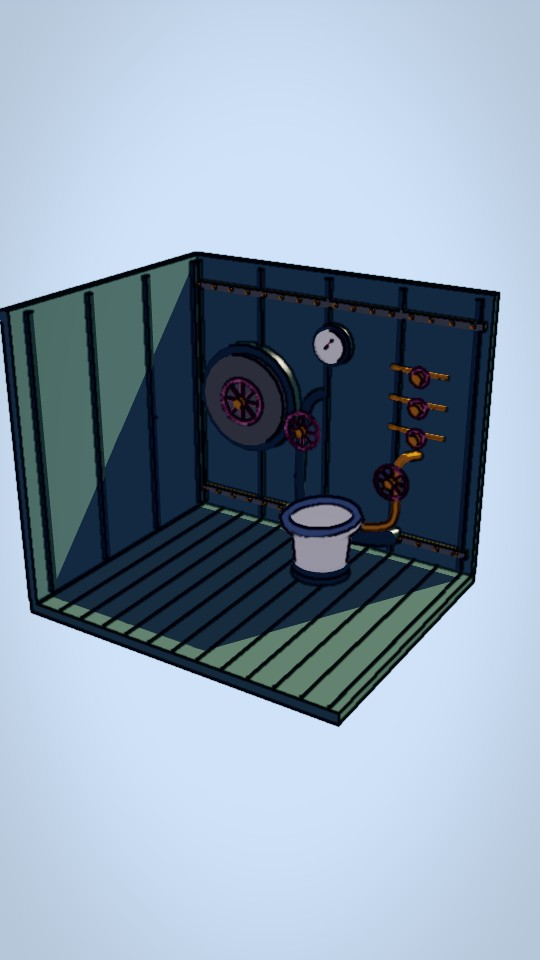
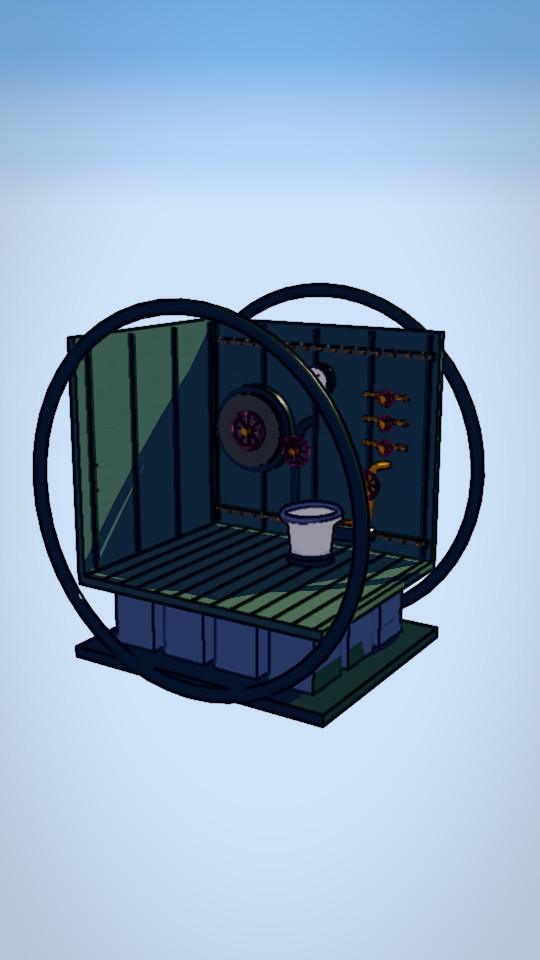
Improve submarine reference and asset experiments

diff --git a/videos/submarine-toilet/assets/submarine.js b/videos/submarine-toilet/assets/submarine.js
@@ -1,7 +1,7 @@
 // Original stylised U-boat and compartment geometry. Y up; metres; bow +Z.
 import * as T from 'three';
 const mat=(name,color)=>Object.assign(new T.MeshStandardMaterial({color,roughness:.8}),{name});
-const M={hull:mat('iron','#56696b'), lower:mat('iron','#343f43'), deck:mat('iron','#777a70'), edge:mat('iron','#323e40'), brass:mat('gold','#bb8749'), ivory:mat('enamel','#dfdac5'), red:mat('paint','#9e4035'), dark:mat('dark','#293536'), floor:mat('iron','#586965')};
+const M={wood:mat('oakDark','#695c4b'), hull:mat('iron','#56696b'), lower:mat('iron','#343f43'), deck:mat('iron','#777a70'), edge:mat('iron','#323e40'), brass:mat('gold','#bb8749'), ivory:mat('enamel','#dfdac5'), red:mat('paint','#9e4035'), dark:mat('dark','#293536'), floor:mat('iron','#586965')};
 function mesh(g,m,parent,x=0,y=0,z=0){const a=new T.Mesh(g,m);a.position.set(x,y,z);parent.add(a);return a}
 function box(p,m,x,y,z,w,h,d){return mesh(new T.BoxGeometry(w,h,d),m,p,x,y,z)}
 function cylinder(p,m,x,y,z,r,h,axis='y'){let a=mesh(new T.CylinderGeometry(r,r,h,20),m,p,x,y,z);if(axis==='z')a.rotation.x=Math.PI/2;if(axis==='x')a.rotation.z=Math.PI/2;return a}
@@ -33,11 +33,32 @@ export function createSubmarine(){let g=new T.Group();g.name='type-viic-inspired
  // Long turned pressure hull, fine ends and raised free-flooding upper casing.
  const pts=[[-33,0],[-32,.55],[-29,1.45],[-24,2.3],[-17,2.9],[-7,3.15],[9,3.15],[20,2.8],[28,1.9],[32,.75],[33,0]].map(([z,r])=>new T.Vector2(r,z));
  let hull=mesh(new T.LatheGeometry(pts,64),M.hull,g,0,3.2,0);hull.rotation.x=Math.PI/2;
- box(g,M.deck,0,5.6,0,3.8,.22,42);for(let z=-19;z<21;z+=1.2)box(g,M.edge,0,5.73,z,3.55,.02,.035);
+ // Raised casing and wooden deck over the pressure hull. Dark marks are graphic flood-port cues.
+ box(g,M.deck,0,5.6,0,3.8,.22,42);box(g,M.wood,0,5.73,0,3.35,.055,40);
+ for(let x=-1.5;x<=1.5;x+=.3)box(g,M.edge,x,5.765,0,.018,.012,39.8);
+ for(let side of [-1,1]) { let tank=mesh(new T.SphereGeometry(1,24,12),M.lower,g,side*2.12,3.2,-1); tank.scale.set(.85,1.18,20); for(let z=-17;z<=18;z+=1.4) box(g,M.edge,side*2.39,4.96,z,.045,.13,.7); }
+ for(let z=-18;z<19;z+=3.5){cylinder(g,M.edge,0,5.8,z,.19,.07);cylinder(g,M.deck,0,5.85,z,.13,.05)}
  let tower=new T.Group();tower.name='conning-tower';g.add(tower);box(tower,M.hull,0,6.45,-1,2.5,1.65,6.8);cylinder(tower,M.hull,0,6.45,2.4,1.25,1.65);box(tower,M.edge,0,7.34,-.4,2.7,.12,6.2);
+ // Simplified late-war bridge and raised aft wintergarten, separate rail/weapon detailing remains schematic.
+ box(tower,M.hull,0,6.25,-5,2.35,.65,2.6);box(tower,M.deck,0,6.63,-5,2.5,.12,2.6);
+ for(let x of [-1.16,1.16]) {for(let z=-6;z<=-4;z+=.5)cylinder(tower,M.edge,x,6.98,z,.025,.65);box(tower,M.edge,x,7.31,-5,.04,.04,2.3)}
+ for(let side of [-1,1])for(let z=-2.8;z<2;z+=.55)box(tower,M.edge,side*1.26,6.55,z,.025,.2,.24);
  for(let x of [-1.15,1.15]){for(let z=-3.8;z<2.8;z+=1.05)cylinder(tower,M.edge,x,7.65,z,.035,.65);box(tower,M.edge,x,7.96,-.5,.045,.045,6.8)}
  cylinder(tower,M.edge,-.35,8.25,-.6,.07,1.6);cylinder(tower,M.edge,.3,8.1,-1.4,.045,1.4);
  // twin stern shafts, propellers and separate steering surfaces
  for(let x of [-1.15,1.15]){cylinder(g,M.edge,x,2.65,-28,.10,5,'z');let prop=new T.Group();prop.name='propeller';prop.position.set(x,2.65,-30.5);g.add(prop);cylinder(prop,M.brass,0,0,0,.2,.5,'z');for(let i=0;i<3;i++){let blade=mesh(new T.SphereGeometry(.55,12,8),M.brass,prop,Math.cos(i*2*Math.PI/3)*.48,Math.sin(i*2*Math.PI/3)*.48,0);blade.scale.set(.42,1,.1);blade.rotation.z=i*2*Math.PI/3-1.1}}
  box(g,M.edge,0,2.6,-30,.18,3.0,2.4);box(g,M.edge,0,3.0,-30,4.4,.16,2.1);
- g.userData={units:'m',pivot:'keel midships',bow:'+Z',length:66};return g}
+ g.userData={units:'m',pivot:'keel midships',bow:'+Z',length:66, historicalNote:'stylised type VIIC; configuration not verified for U-1206'};return g}
+/** Educational section: illustrative spatial layers, not a verified arrangement of U-1206. */
+export function createSection(){
+ const section=new T.Group();section.name='illustrative-section';
+ const room=createCompartment();room.position.y=1;section.add(room);
+ // A ring at each end makes the pressure-hull cross section legible with the near wall removed.
+ for(const z of [-1.42,1.42]){const rib=mesh(new T.TorusGeometry(2.05,.08,10,48),M.edge,section,0,2.05,z);rib.name='pressure-hull-rib'}
+ box(section,M.lower,0,.07,0,3.3,.14,2.8);
+ for(let x of [-1.05,-.35,.35,1.05]) for(let z of [-.75,0,.75]){
+  const cell=box(section,M.dark,x,.48,z,.56,.74,.6);cell.name='illustrative-battery';
+  cylinder(section,M.brass,x-.13,.88,z,.045,.08);cylinder(section,M.brass,x+.13,.88,z,.045,.08);
+ }
+ section.userData={units:'m',pivot:'bottom centre',historicalNote:'schematic; battery location and pipe routing unverified'};return section;
+}

diff --git a/src/videos/submarine-toilet/Preview.tsx b/src/videos/submarine-toilet/Preview.tsx
@@ -9,18 +9,18 @@ import {InkPass, noInkFallback, NOINK} from '../../pipeline/ink';
 import {LensBlur} from '../../pipeline/lensblur';
 import {GradeEffect, GRADES, GRADE_STRENGTH} from '../../pipeline/grade';
 import {SkyRig} from '../../pipeline/sky';
-import {toonify} from '../../pipeline/props3d';
+import {finish} from './materials';
 import {Ground} from '../../pipeline/ground';
 import {CardStage, person, blob, Stage, CamInfo} from '../../pipeline/cast';
 import {soldier} from '../../pipeline/toon';
-import {createCompartment,createSubmarine,createToilet} from '../../../videos/submarine-toilet/assets/submarine.js';
-const shots=[{pos:[78,60,108],look:[0,3,0],fov:48},{pos:[2.1,2.0,4.4],look:[0,.8,-.2],fov:48},{pos:[4.8,4.9,7.4],look:[0,1,-.2],fov:48},{pos:[3.2,2.6,7.0],look:[0,1,-.4],fov:48}] as const;
+import {createCompartment,createSubmarine,createToilet,createSection} from '../../../videos/submarine-toilet/assets/submarine.js';
+const shots=[{pos:[78,60,108],look:[0,3,0],fov:48},{pos:[2.1,2.0,4.4],look:[0,.8,-.2],fov:48},{pos:[6.5,5.0,10.0],look:[0,2,-.2],fov:48},{pos:[3.2,2.6,7.0],look:[0,1,-.4],fov:48}] as const;
 function Inner(){const f=useCurrentFrame();const {camera,scene}=useThree();const cam=camera as THREE.PerspectiveCamera;
- const world=useMemo(()=>{const root=new THREE.Group(),sky=new SkyRig(root,{clouds:0});const ship=toonify(createSubmarine()),room=toonify(createCompartment()),toilet=toonify(createToilet());root.add(ship,room,toilet);const ground=new Ground();const floor=room.getObjectByName('floor');if(floor)ground.add(floor);const cards=new CardStage(root,ground);return {root,sky,ship,room,toilet,cards}},[]);
+ const world=useMemo(()=>{const root=new THREE.Group(),sky=new SkyRig(root,{clouds:0});const ship=finish(createSubmarine()),room=finish(createCompartment()),toilet=finish(createToilet()),section=finish(createSection());root.add(ship,room,toilet,section);const ground=new Ground();const floor=room.getObjectByName('floor');if(floor)ground.add(floor);const cards=new CardStage(root,ground);return {root,sky,ship,room,toilet,section,cards}},[]);
  const fx=useMemo(()=>({ink:new InkPass(scene,cam),lens:new LensBlur({maxCoC:24,nearScale:1.2}),bloom:new BloomEffect({blendFunction:BlendFunction.ADD,intensity:.5,luminanceThreshold:1,luminanceSmoothing:.2,mipmapBlur:true,levels:6,radius:.6}),tone:new ToneMappingEffect({mode:ToneMappingMode.NEUTRAL}),grade:new GradeEffect(GRADES.day,GRADE_STRENGTH.day)}),[scene,cam]);
  const i=Math.min(3,Math.floor(f/100)),s=shots[i];cam.position.set(s.pos[0],s.pos[1],s.pos[2]);cam.lookAt(s.look[0],s.look[1],s.look[2]);cam.fov=s.fov;cam.updateProjectionMatrix();cam.updateMatrixWorld();cam.layers.enable(NOINK);
  const focus=new THREE.Vector3(...s.look),sun=SkyRig.sunFrom(focus.x-cam.position.x,focus.z-cam.position.z,62,44);world.sky.update(cam,scene,'day',sun,focus,{fogNear:200,fogFar:1000,shadowR:i===0?60:8});
- world.ship.visible=i===0;world.room.visible=i>=2;world.toilet.visible=i===1;world.root.updateMatrixWorld(true);
+ world.ship.visible=i===0;world.room.visible=i===3;world.section.visible=i===2;world.toilet.visible=i===1;world.root.updateMatrixWorld(true);
  const right=new THREE.Vector3().setFromMatrixColumn(cam.matrixWorld,0),ci:CamInfo={pos:cam.position,right,sun,light:'day'},st:Stage={places:[],fx:[]};
  if(i===3){st.places.push(person(ci,1,soldier(0),'crew',-.55,0,.3,{mode:'stand',expr:'worried'},1,{name:'crew',glow:'subtle'}));blob(ci,st,-.55,.3)}
  world.cards.render(st,cam,right,'day',false);noInkFallback(world.root);fx.lens.focus=cam.position.distanceTo(focus);fx.lens.cInf=0;

diff --git a/src/videos/submarine-toilet/materials.ts b/src/videos/submarine-toilet/materials.ts
@@ -1,0 +1,22 @@
+// Story-specific painted-metal treatment. Textures are original, generated deterministically at runtime.
+import * as THREE from 'three';
+import {toonify} from '../../pipeline/props3d';
+
+function paintedMetal(): THREE.CanvasTexture {
+  const c=document.createElement('canvas'); c.width=512;c.height=512;
+  const ctx=c.getContext('2d')!;ctx.fillStyle='#e2e3dc';ctx.fillRect(0,0,512,512);
+  // Soft tonal variation and fine, sparse scratches rather than photographic dirt.
+  let seed=1206;const rand=()=>{seed=(seed*1664525+1013904223)>>>0;return seed/4294967296};
+  for(let i=0;i<460;i++) {const x=rand()*512,y=rand()*512,w=4+rand()*50;
+    ctx.strokeStyle=i%3===0?'rgba(255,255,255,0.12)':'rgba(45,63,57,0.07)';ctx.lineWidth=.5+rand()*1.5;ctx.beginPath();ctx.moveTo(x,y);ctx.lineTo(x+w,y+rand()*3-1.5);ctx.stroke();}
+  const t=new THREE.CanvasTexture(c);t.colorSpace=THREE.SRGBColorSpace;t.wrapS=t.wrapT=THREE.RepeatWrapping;t.needsUpdate=true;return t;
+}
+/** Convert to the shared two-tone shader, preserving an original procedural finish. */
+export function finish<T extends THREE.Object3D>(root:T):T {
+  toonify(root); const texture=paintedMetal(), cache=new Map<THREE.Material,THREE.Material>();
+  root.traverse(o=>{const mesh=o as THREE.Mesh;if(!mesh.isMesh)return;
+    const apply=(base:THREE.Material)=>{if(base.name!=='iron')return base;let m=cache.get(base);if(!m){
+      const original=base as THREE.MeshPhongMaterial;const copy=original.clone();copy.onBeforeCompile=original.onBeforeCompile;copy.customProgramCacheKey=original.customProgramCacheKey;copy.map=texture;copy.needsUpdate=true;m=copy;cache.set(base,m)}return m};
+    mesh.material=Array.isArray(mesh.material)?mesh.material.map(apply):apply(mesh.material);
+  });return root;
+}

diff --git a/videos/submarine-toilet/ASSET-MANIFEST.md b/videos/submarine-toilet/ASSET-MANIFEST.md
@@ -13,3 +13,13 @@ Valve wheels and propellers are named groups but animation pivots and connection
 ## References and uncertainty
 
 The proposed source https://uboat.net/types/viic.htm could not be retrieved (network proxy returned HTTP 403). No historical dimensions, hull features, or toilet configuration have been verified for this model. Research primary or reputable museum/technical references for the Type VIIC/41 U-1206 exterior and the specific high-pressure system before building a factual visual. Confirm licensing and cite consulted material, not merely suggested URLs. The cause and sequence remain unverified. Do not promote the geometry or script to approved on this evidence.
+
+## Reference and iteration update
+
+- [Type VIIC manual, U-boat Archive](https://uboatarchive.net/Manual/Manual.htm), sections II and XI: describes circular pressure hull, separate outer casing, deck and compressed-air-operated W.C. pumps. It does not establish the exact layout on U-1206.
+- [U-1206 boat record, uboat.net](https://uboat.net/boats/u1206.htm) identifies it as Type VIIC and gives an account of high-pressure toilet-related flooding. [National Underwater and Marine Agency](https://numa.net/2025/01/u-1206-flush-ends-wartime-gamble/) provides another account; details require independent checking before script approval.
+- [Sanitary piping discussion, U-Historia](https://u-historia.com/uhistoria/tecnico/visitaguiada/tubsani/tubsani.htm) offers a different sequence of events. No single version or modeled pipe layout has been established as fact. Links are research references only; no images or source geometry were imported.
+
+`createSection()` now offers a schematic section, with illustrative battery cells below an accessible compartment; it is not a verified longitudinal U-1206 cutaway. `src/videos/submarine-toilet/materials.ts` applies an original deterministic painted-metal texture in the preview renderer, and the wooden deck uses the shared toon material treatment. The unconverted asset uses named standard materials; use `finish()` to apply the same finish. The updated exterior has schematic saddle tanks, deck, vents and wintergarten. All assets remain **blocked**: the exterior is still too small in frame and too schematic, the ringed section is sparse and visually confusing, the interior remains dark, and the toilet arrangement and operating sequence are unverified.
+
+`node scripts/audit-submarine.mjs` checks finite position/normal attributes and bounding boxes only: exterior 8,664, toilet 5,232, compartment 12,800, section 16,796 triangles. It does not establish normals orientation, closed surfaces, contact, collisions, valid pivots, or visual quality.

diff --git a/videos/submarine-toilet/CODEX-HANDOFF.md b/videos/submarine-toilet/CODEX-HANDOFF.md
@@ -7,3 +7,7 @@ Implemented: preliminary procedural exterior, toilet and removable-wall compartm
 Validation on 2026-11-17: `npx tsc --noEmit` passed. `node scripts/submarine-stills.mjs` rendered all four JPEGs with system Chromium and software GL after sandbox blocked Chromium's crashpad; the successful run required elevated execution. Visually inspected at 540 × 960: objects load and scale card is grounded, but model quality, historical fidelity, detailed mechanism, textures, practical cutaway, lighting, composition and QA fail the requested standard. The preview character is an anachronistic scale proxy. Exterior framing is very small; room shadows are dark. These previews are diagnostic, not a request to approve assets. No geometry audit or motion/contact test has passed.
 
 Network reference request to uboat.net returned HTTP 403. Obtain accessible sources, research proportions and mechanism, rebuild models as needed, provide materials/textures, section view and working character interaction, then run geometric audits and render/inspect hero, detail, section and staging stills from multiple angles. Compare against Niagara renders and obtain owner approval. Draft script and missing SCRIPT.md / SHOTLIST.md are separate blockers to production. Do not start animation. No claim is made that this branch is available to Claude until it is pushed or checked out explicitly.
+
+## Subsequent iteration
+
+Accessible references were found and recorded in the manifest. An original generated metal finish, simplified deck and casing detail, and an illustrative section have been added; all four stills were rerendered and inspected with the same command. `npx tsc --noEmit` and `node scripts/audit-submarine.mjs` passed; the latter checks only finite attributes and bounds, not complete geometry quality. The new section's foreground rings obscure the set, and neither its staging nor the exterior meets the requested quality bar. The toilet remains speculative. These are still work-in-progress; do not commence Claude animation from this package. Once production assets and verified approved story/shot list exist, use CLAUDE-PROMPT.md and the staged preview/approval gates there.
